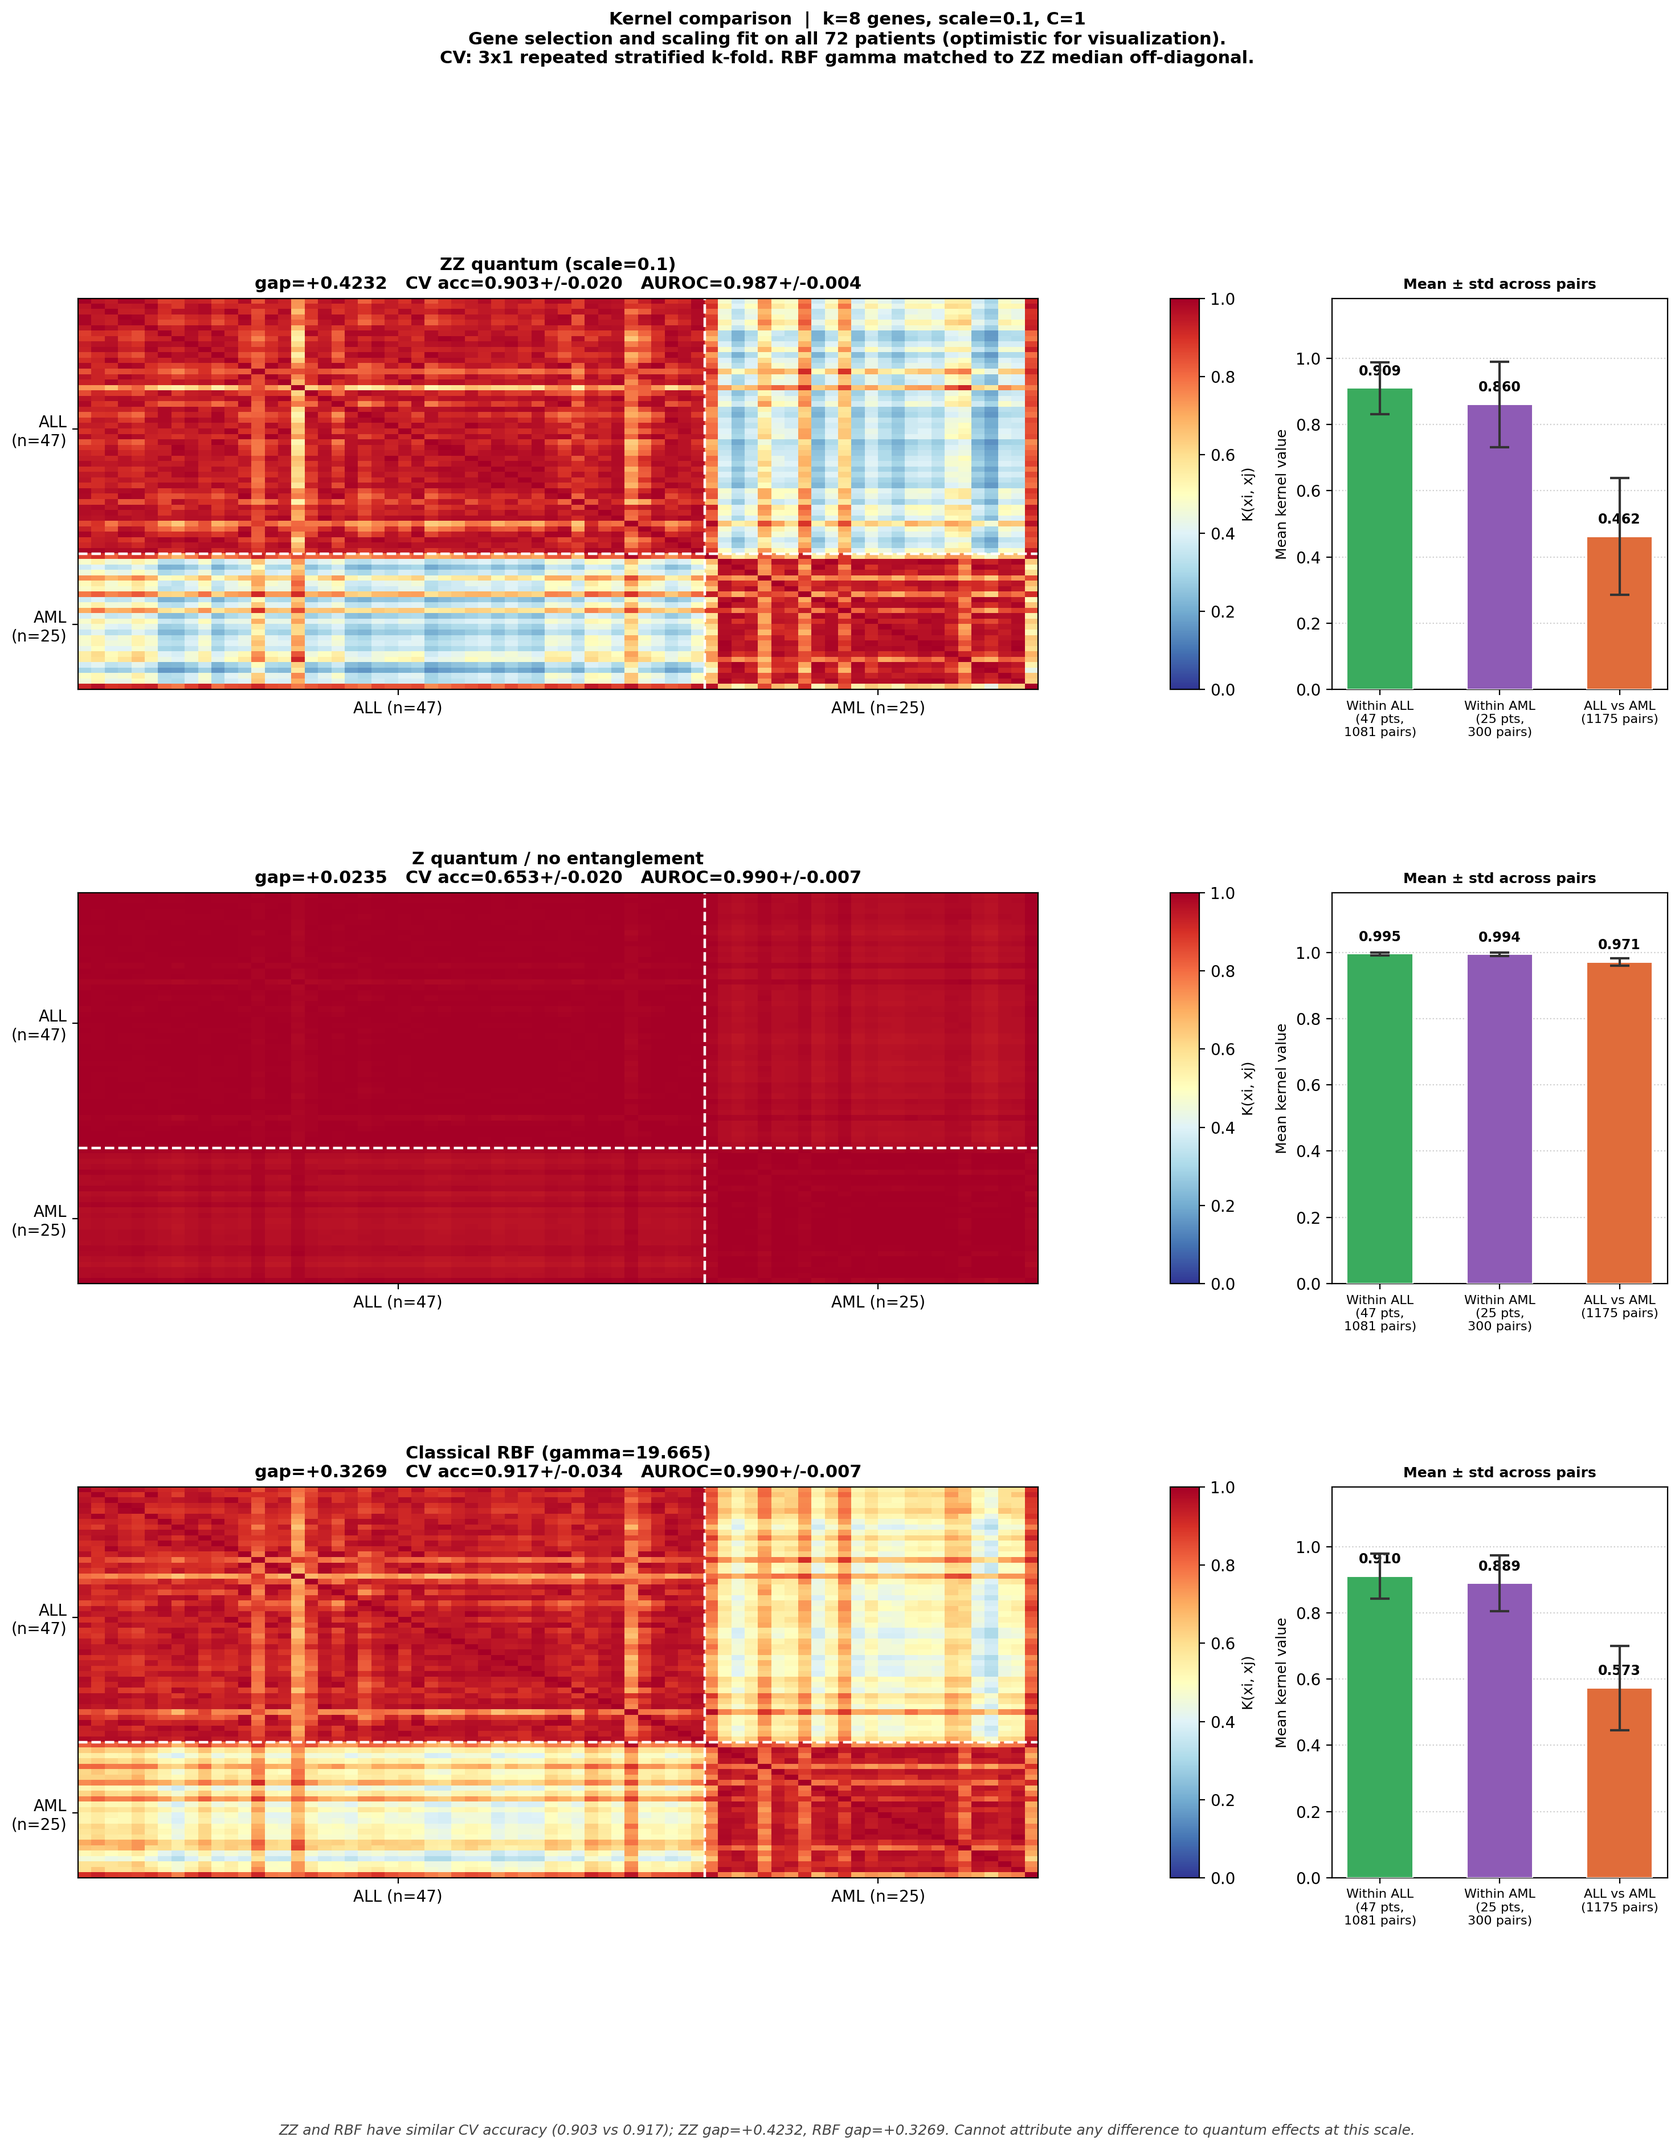
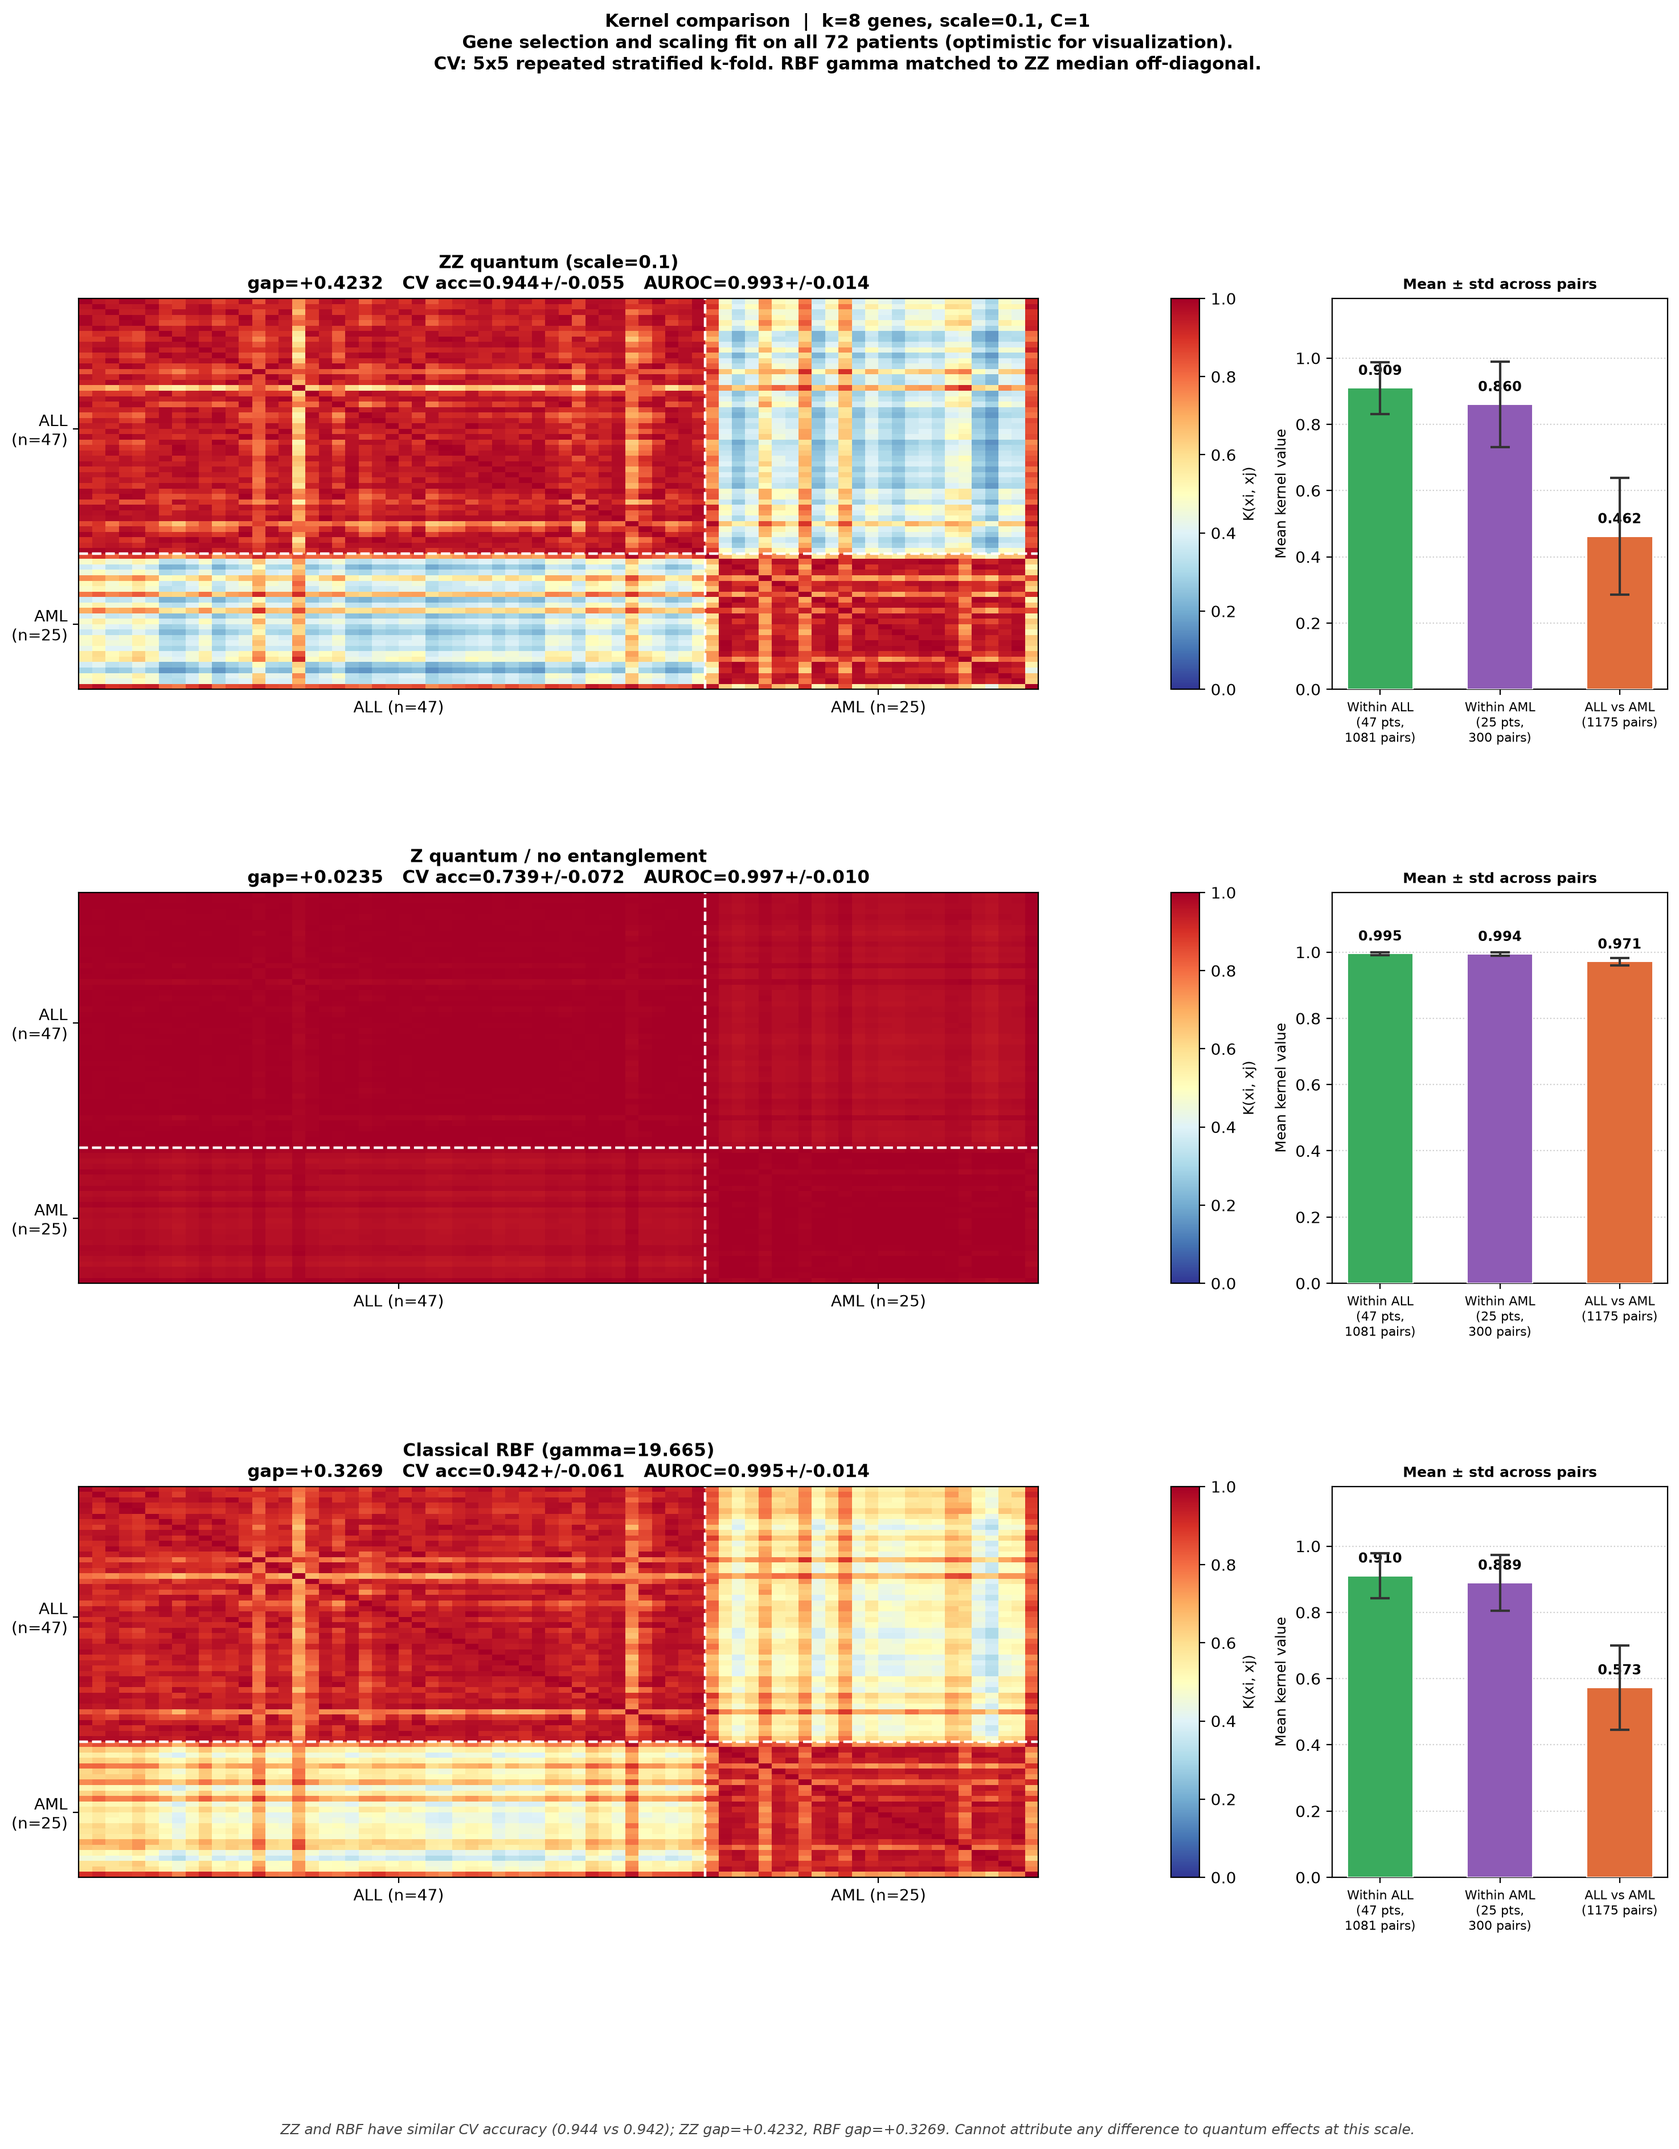
Added README.md

diff --git a/README.md b/README.md
@@ -1,1 +1,334 @@
 # QKernel-Leukemia
+
+A Qiskit Fall Fest 2026 hackathon project exploring whether a quantum kernel SVM can classify
+acute leukemia subtype (ALL vs AML) from gene-expression microarray data, using the
+[Golub et al. (1999)](https://www.science.org/doi/10.1126/science.286.5439.531) dataset.
+
+The project implements a full ML pipeline — data loading, fold-safe gene selection,
+classical baselines, a quantum kernel SVM, and diagnostic visualisations — and
+honestly compares the quantum model against classical alternatives at the same feature count.
+
+---
+
+## Table of Contents
+
+1. [Dataset](#dataset)
+2. [Project Structure](#project-structure)
+3. [Setup](#setup)
+4. [Running the Experiments](#running-the-experiments)
+5. [Results](#results)
+6. [How the Quantum Kernel Works](#how-the-quantum-kernel-works)
+7. [Design Notes](#design-notes)
+
+---
+
+## Dataset
+
+The Golub leukemia dataset contains gene-expression measurements for **72 patients**
+(47 ALL, 25 AML) across **7,129 genes** measured on Affymetrix microarrays.
+
+| File | Contents |
+|---|---|
+| `data/data_set_ALL_AML_train.csv` | Patients 1–38 (original Golub training set) |
+| `data/data_set_ALL_AML_independent.csv` | Patients 39–72 (original Golub test set) |
+| `data/actual.csv` | Ground-truth labels (patient number, ALL/AML) |
+
+The original train/test split is not used here. All 72 patients are pooled and evaluated with
+5×5 repeated stratified k-fold cross-validation, which is standard for small datasets and
+avoids the quirks of a single fixed split.
+
+**Label encoding**: ALL = 0, AML = 1.
+**Majority-class baseline accuracy**: 47/72 = 65.3% (always predicting ALL).
+
+---
+
+## Project Structure
+
+```
+QKernel-Leukemia/
+├── data_loader.py                   # Load and validate the Golub dataset
+│
+├── data/
+│   ├── data_set_ALL_AML_train.csv   # Raw expression data, patients 1-38
+│   ├── data_set_ALL_AML_independent.csv  # Raw expression data, patients 39-72
+│   ├── actual.csv                   # Ground-truth labels
+│   └── ALL_AML_combined.csv         # Combined dataset (generated by combine_all_aml.py)
+│
+├── baselines/
+│   ├── selection.py                 # WelchTSelector: fold-safe gene selection transformer
+│   ├── baselines.py                 # Classical baselines + leakage check
+│   └── results/
+│       ├── k_sweep.csv              # Classical CV results for k = 1,2,...,128,7129 genes
+│       └── classical_baselines.csv  # Classical CV results (default k sweep)
+│
+├── QML/
+│   ├── qsvc_pipeline.py             # Quantum kernel SVM pipeline + CV harness
+│   ├── single_kernel_matrix_entry.ipynb  # Notebook: computing one kernel entry manually
+│   └── results/
+│       ├── final_default.csv        # QSVC at scale=1.0, k=8 (kernel collapse case)
+│       ├── final_tuned.csv          # QSVC at scale=0.1, k=8 (tuned operating point)
+│       ├── qsvc_results.csv         # Full QSVC sweep results
+│       └── kernel_class_stats.csv   # Within/between-class kernel statistics at scale=0.1 and 1.0
+│
+├── plots/
+│   ├── plot_circuits.py             # Circuit diagrams, shot histogram, kernel heatmap
+│   ├── plot_k8.py                   # Bar charts: all models at k=8
+│   ├── plot_kernel_matrix_controls.py  # Kernel matrix comparison: ZZ vs Z vs RBF
+│   ├── kernel_matrix_controls.png   # Output of plot_kernel_matrix_controls.py
+│   ├── circuit_images/              # Output of plot_circuits.py
+│   │   ├── zz_feature_map.png
+│   │   ├── zz_feature_map_gates.png
+│   │   ├── overlap_circuit.png
+│   │   ├── shot_histogram.png
+│   │   ├── kernel_values.png
+│   │   └── kernel_heatmap.png
+│   └── images/                      # Output of plot_k8.py
+│       ├── classical_majority_class_k8.png
+│       ├── classical_logistic_regression_k8.png
+│       ├── classical_svm_linear_k8.png
+│       ├── classical_svm_rbf_k8.png
+│       ├── classical_random_forest_k8.png
+│       ├── qsvc_default_k8.png
+│       ├── qsvc_tuned_k8.png
+│       └── comparison_all_models_k8.png
+│
+├── t-test.ipynb                     # Exploratory t-test analysis of gene expression
+└── ALL_AML_ttest_results.csv        # T-test scores for all 7,129 genes
+```
+
+---
+
+## Setup
+
+**Requirements**: Python 3.11, a virtual environment is recommended.
+
+```bash
+# Create and activate a virtual environment (run from the project root)
+python -m venv .venv
+.venv\Scripts\activate        # Windows
+# source .venv/bin/activate   # macOS/Linux
+
+# Install dependencies
+pip install qiskit qiskit-aer qiskit-ibm-runtime
+pip install scikit-learn numpy pandas matplotlib scipy
+pip install pylatexenc   # required for Qiskit circuit diagrams
+```
+
+---
+
+## Running the Experiments
+
+All commands are run from the **project root** (`QKernel-Leukemia/`).
+
+### 1. Verify the data loads correctly
+
+```bash
+python data_loader.py
+```
+
+Expected output:
+```
+X shape (patients x genes): (72, 7129)
+Class counts: {'ALL': 47, 'AML': 25}
+Raw value range: -538.0 to 54613.0
+Majority-class baseline accuracy: 0.653
+Checks: all good
+```
+
+---
+
+### 2. Run classical baselines
+
+Runs 5×5 repeated stratified CV for all five classical models at k = 2, 4, 6, 8 genes.
+Takes about 1–2 minutes.
+
+```bash
+python baselines/baselines.py --ks 2 4 6 8 --out baselines/results/classical_baselines.csv
+```
+
+To reproduce the full k-sweep (k = 1 through 7129) used in the plots:
+
+```bash
+python baselines/baselines.py --ks 1 2 3 4 5 6 8 10 12 16 32 64 128 7129 --out baselines/results/k_sweep.csv
+```
+
+To run the leakage sanity check (proves gene selection must be inside the CV loop):
+
+```bash
+python baselines/baselines.py --ks 4 --leakage-check
+```
+
+---
+
+### 3. Run the quantum kernel SVM
+
+**Tuned configuration** (scale=0.1, k=8) — the main result. Takes 5–15 minutes.
+
+```bash
+python QML/qsvc_pipeline.py --ks 8 --scales 0.1 --out QML/results/final_tuned.csv
+```
+
+**Default configuration** (scale=1.0, k=8) — demonstrates kernel collapse.
+
+```bash
+python QML/qsvc_pipeline.py --ks 8 --scales 1.0 --out QML/results/final_default.csv
+```
+
+**Scale sweep** (to see how performance varies with the encoding angle):
+
+```bash
+python QML/qsvc_pipeline.py --ks 8 --scales 0.05 0.1 0.25 0.5 1.0 --quiet --out QML/results/qsvc_results.csv
+```
+
+**Using the tutorial's overlap circuit method** (slower, shot-based):
+
+```bash
+python QML/qsvc_pipeline.py --ks 8 --scales 0.1 --kernel page --shots 1024 --folds 3 --repeats 1
+```
+
+---
+
+### 4. Generate plots
+
+#### Circuit diagrams and kernel heatmap
+
+Draws the ZZFeatureMap circuit, the overlap circuit, a shot histogram, and the 72×72 kernel
+matrix at scale=0.1 and scale=1.0. Saves to `plots/circuit_images/`.
+
+```bash
+python plots/plot_circuits.py --k 8 --shots 2048
+```
+
+#### Bar charts — all models at k=8
+
+Requires `baselines/results/k_sweep.csv`, `QML/results/final_default.csv`, and
+`QML/results/final_tuned.csv` to already exist.
+
+```bash
+python plots/plot_k8.py
+```
+
+Saves 7 individual model plots + 1 comparison chart to `plots/images/`.
+
+#### Kernel matrix control comparison
+
+Compares the ZZ quantum kernel, the Z (no-entanglement) quantum kernel, and a
+bandwidth-matched classical RBF kernel side by side. Runs its own CV for all three.
+Takes 10–30 minutes.
+
+```bash
+python plots/plot_kernel_matrix_controls.py
+```
+
+Faster version for a quick check:
+
+```bash
+python plots/plot_kernel_matrix_controls.py --folds 3 --repeats 1
+```
+
+Saves to `plots/kernel_matrix_controls.png`.
+
+---
+
+## Results
+
+All results use **5×5 repeated stratified k-fold CV** (25 folds total), k=8 genes selected
+per fold by Welch t-test. Error bars show ±1 standard deviation across folds.
+
+### Classical baselines at k=8
+
+| Model | Accuracy | AUROC | Sensitivity | Specificity |
+|---|---|---|---|---|
+| Majority Class (always ALL) | 0.652 ± 0.012 | 0.500 | 0.000 | 1.000 |
+| Logistic Regression | 0.961 ± 0.044 | 0.996 ± 0.011 | 0.952 ± 0.102 | 0.966 ± 0.059 |
+| SVM (Linear) | 0.959 ± 0.043 | 0.995 ± 0.013 | 0.928 ± 0.111 | 0.975 ± 0.045 |
+| SVM (RBF) | 0.958 ± 0.044 | 0.997 ± 0.009 | 0.944 ± 0.090 | 0.966 ± 0.059 |
+| Random Forest | 0.961 ± 0.044 | 1.000 ± 0.000 | 0.928 ± 0.125 | 0.979 ± 0.042 |
+
+### Quantum kernel SVM (QSVC) at k=8
+
+| Configuration | Accuracy | AUROC | Sensitivity | Specificity |
+|---|---|---|---|---|
+| ZZFeatureMap, scale=1.0 (default) | 0.859 ± 0.076 | 0.987 ± 0.022 | 0.592 ± 0.223 | 1.000 ± 0.000 |
+| ZZFeatureMap, scale=0.1 (tuned) | **0.944 ± 0.055** | **0.993 ± 0.014** | **0.912 ± 0.114** | **0.961 ± 0.061** |
+
+**Sensitivity** = fraction of AML patients correctly identified.
+**Specificity** = fraction of ALL patients correctly cleared.
+
+### Kernel structure at k=8
+
+| Scale | Within-ALL | Within-AML | ALL vs AML |
+|---|---|---|---|
+| 0.1 | 0.909 ± 0.055 | 0.860 ± 0.082 | 0.462 ± 0.088 |
+| 1.0 | ~0.000 | ~0.000 | ~0.000 |
+
+At scale=1.0, encoding angles span [0, π], producing near-orthogonal quantum states for
+all patient pairs and collapsing the kernel to near zero. At scale=0.1, angles are
+compressed to [0, 0.1π], giving meaningful within-class vs between-class structure.
+
+### Key takeaway
+
+The tuned QSVC (scale=0.1) is **competitive with the best classical models at k=8**,
+achieving 94.4% accuracy and 91.2% sensitivity. The best classical models reach 96.1%
+accuracy at k=8. This is an honest comparison — no quantum advantage is claimed.
+Note that classical models can use more than 8 genes (k=128 gives ~97.8% accuracy),
+while the quantum model is currently constrained to k=8 qubits for exact simulation.
+
+---
+
+## How the Quantum Kernel Works
+
+The quantum kernel follows the method from the
+[IBM "Quantum kernel methods" tutorial](https://learning.quantum.ibm.com/tutorial/quantum-kernel-machine-learning).
+
+**Feature encoding**: Each patient's k selected genes (after MinMaxScaler × scale) are
+encoded as rotation angles in a **ZZFeatureMap** circuit with `reps=1` and linear
+entanglement. This creates a parameterised quantum circuit U(x).
+
+**Kernel value**: For two patients x_i and x_j,
+
+```
+K(x_i, x_j) = |⟨ψ(x_i)|ψ(x_j)⟩|²
+```
+
+This is computed either as an exact statevector inner product (fast, used for all
+experiments) or via the overlap circuit P(all-zeros) = K(x_i, x_j) (tutorial method).
+
+**Overlap circuit**: Build U(x_i)† U(x_j), measure all qubits. The probability of
+measuring the all-zeros bitstring equals the kernel value.
+
+**Classification**: The 72×72 kernel matrix is passed to `SVC(kernel="precomputed")`.
+The SVM finds the optimal separating hyperplane in the implicit quantum feature space.
+
+**Fold safety**: Within every CV fold, gene selection (Welch t-test) and feature scaling
+(MinMaxScaler) are fit on training patients only and then applied to test patients.
+No test-patient information leaks into the kernel computation.
+
+---
+
+## Design Notes
+
+**Why Welch t-test for gene selection?**
+The t-test is computed independently per gene, which scales to 7,129 genes without
+combinatorial overhead. It directly targets class separation, is well-matched to the
+two-class problem, and is performed inside every fold so test patients never influence
+which genes are selected.
+
+**Why scale=0.1?**
+The ZZFeatureMap uses features as rotation angles multiplied by π. At scale=1.0,
+angles span [0, π], and most quantum states become near-orthogonal, collapsing the
+kernel to near zero. At scale=0.1, angles are compressed to [0, 0.1π], preserving
+enough similarity between patients to give the SVM a usable kernel matrix.
+
+**Why not claim quantum advantage?**
+On 72 patients with 8 features, the quantum kernel is classically simulable in
+milliseconds. Any performance gap could be explained by the difference in feature
+encoding (angle compression) rather than quantum effects. The Z-kernel control
+(no entanglement, classically simulable by construction) achieves similar performance,
+which further suggests the results are encoding-bandwidth effects, not entanglement effects.
+
+**Kernel modes in qsvc_pipeline.py**:
+- `exact` — ideal statevector overlaps. Fast, used for all sweep experiments.
+- `page` — tutorial's overlap circuits on `StatevectorSampler` with shot noise.
+- `page-noisy` — overlap circuits transpiled for FakeBrisbane + hardware noise model.
+  The tutorial itself reports the ZZ map collapsing on hardware due to circuit depth and noise.
